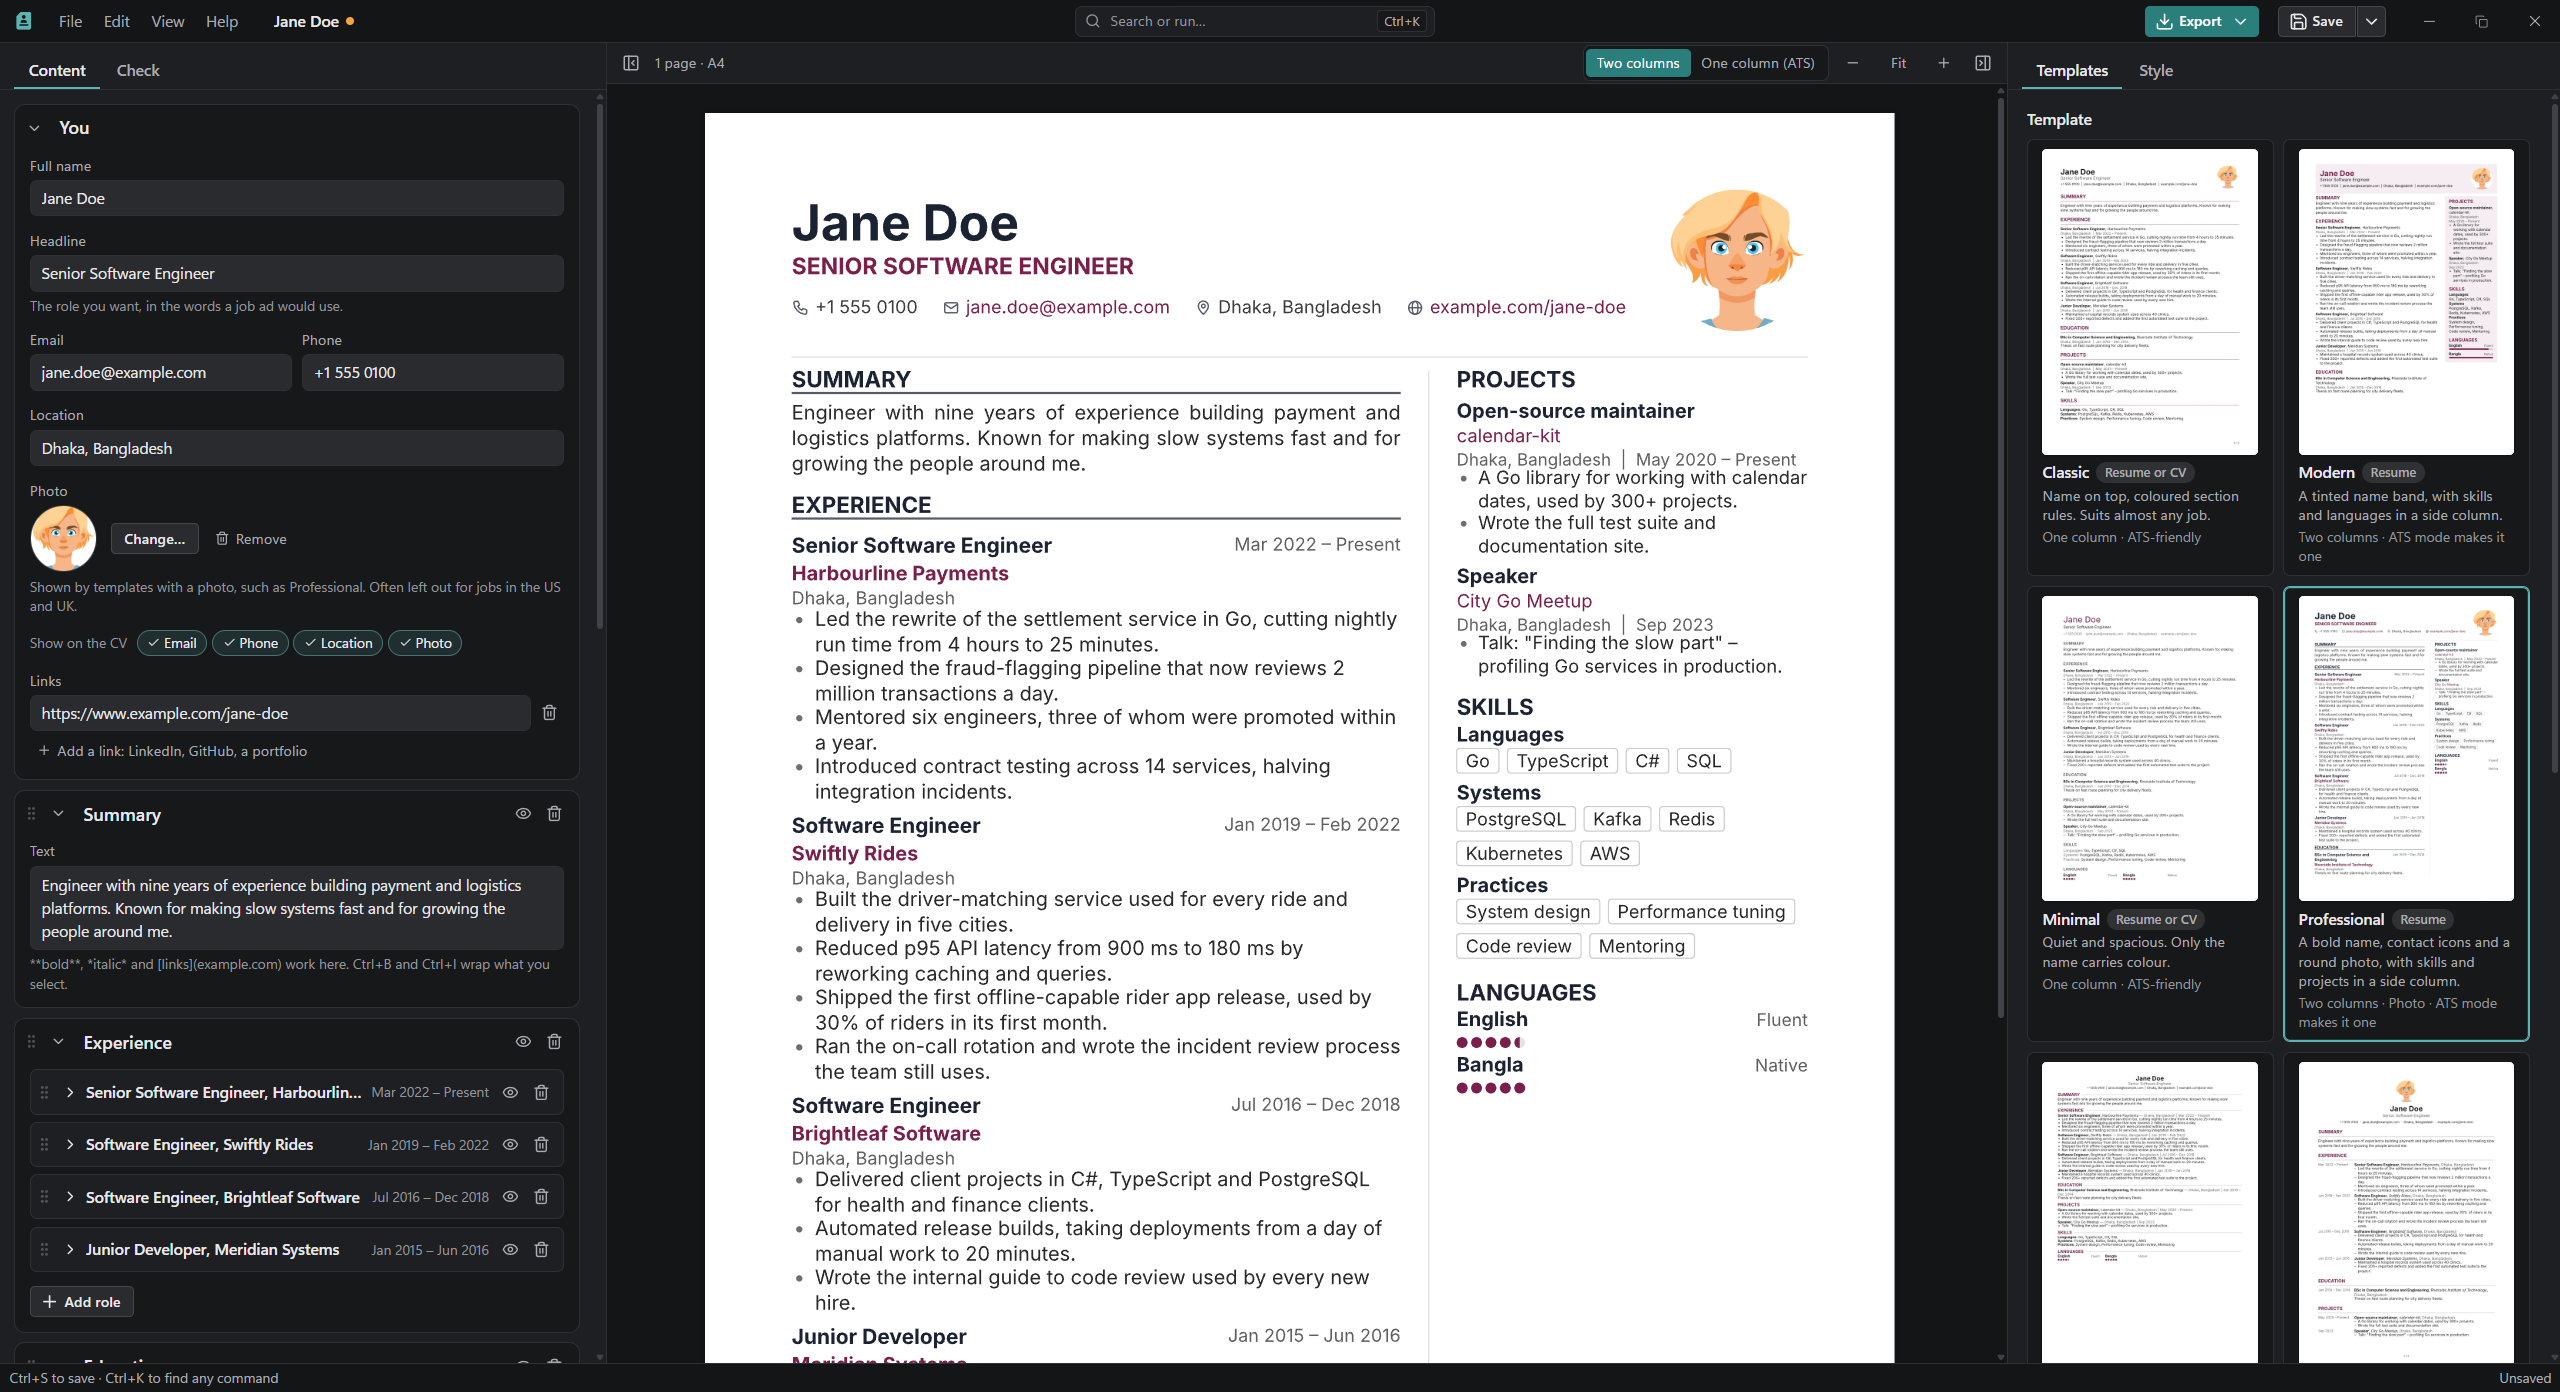
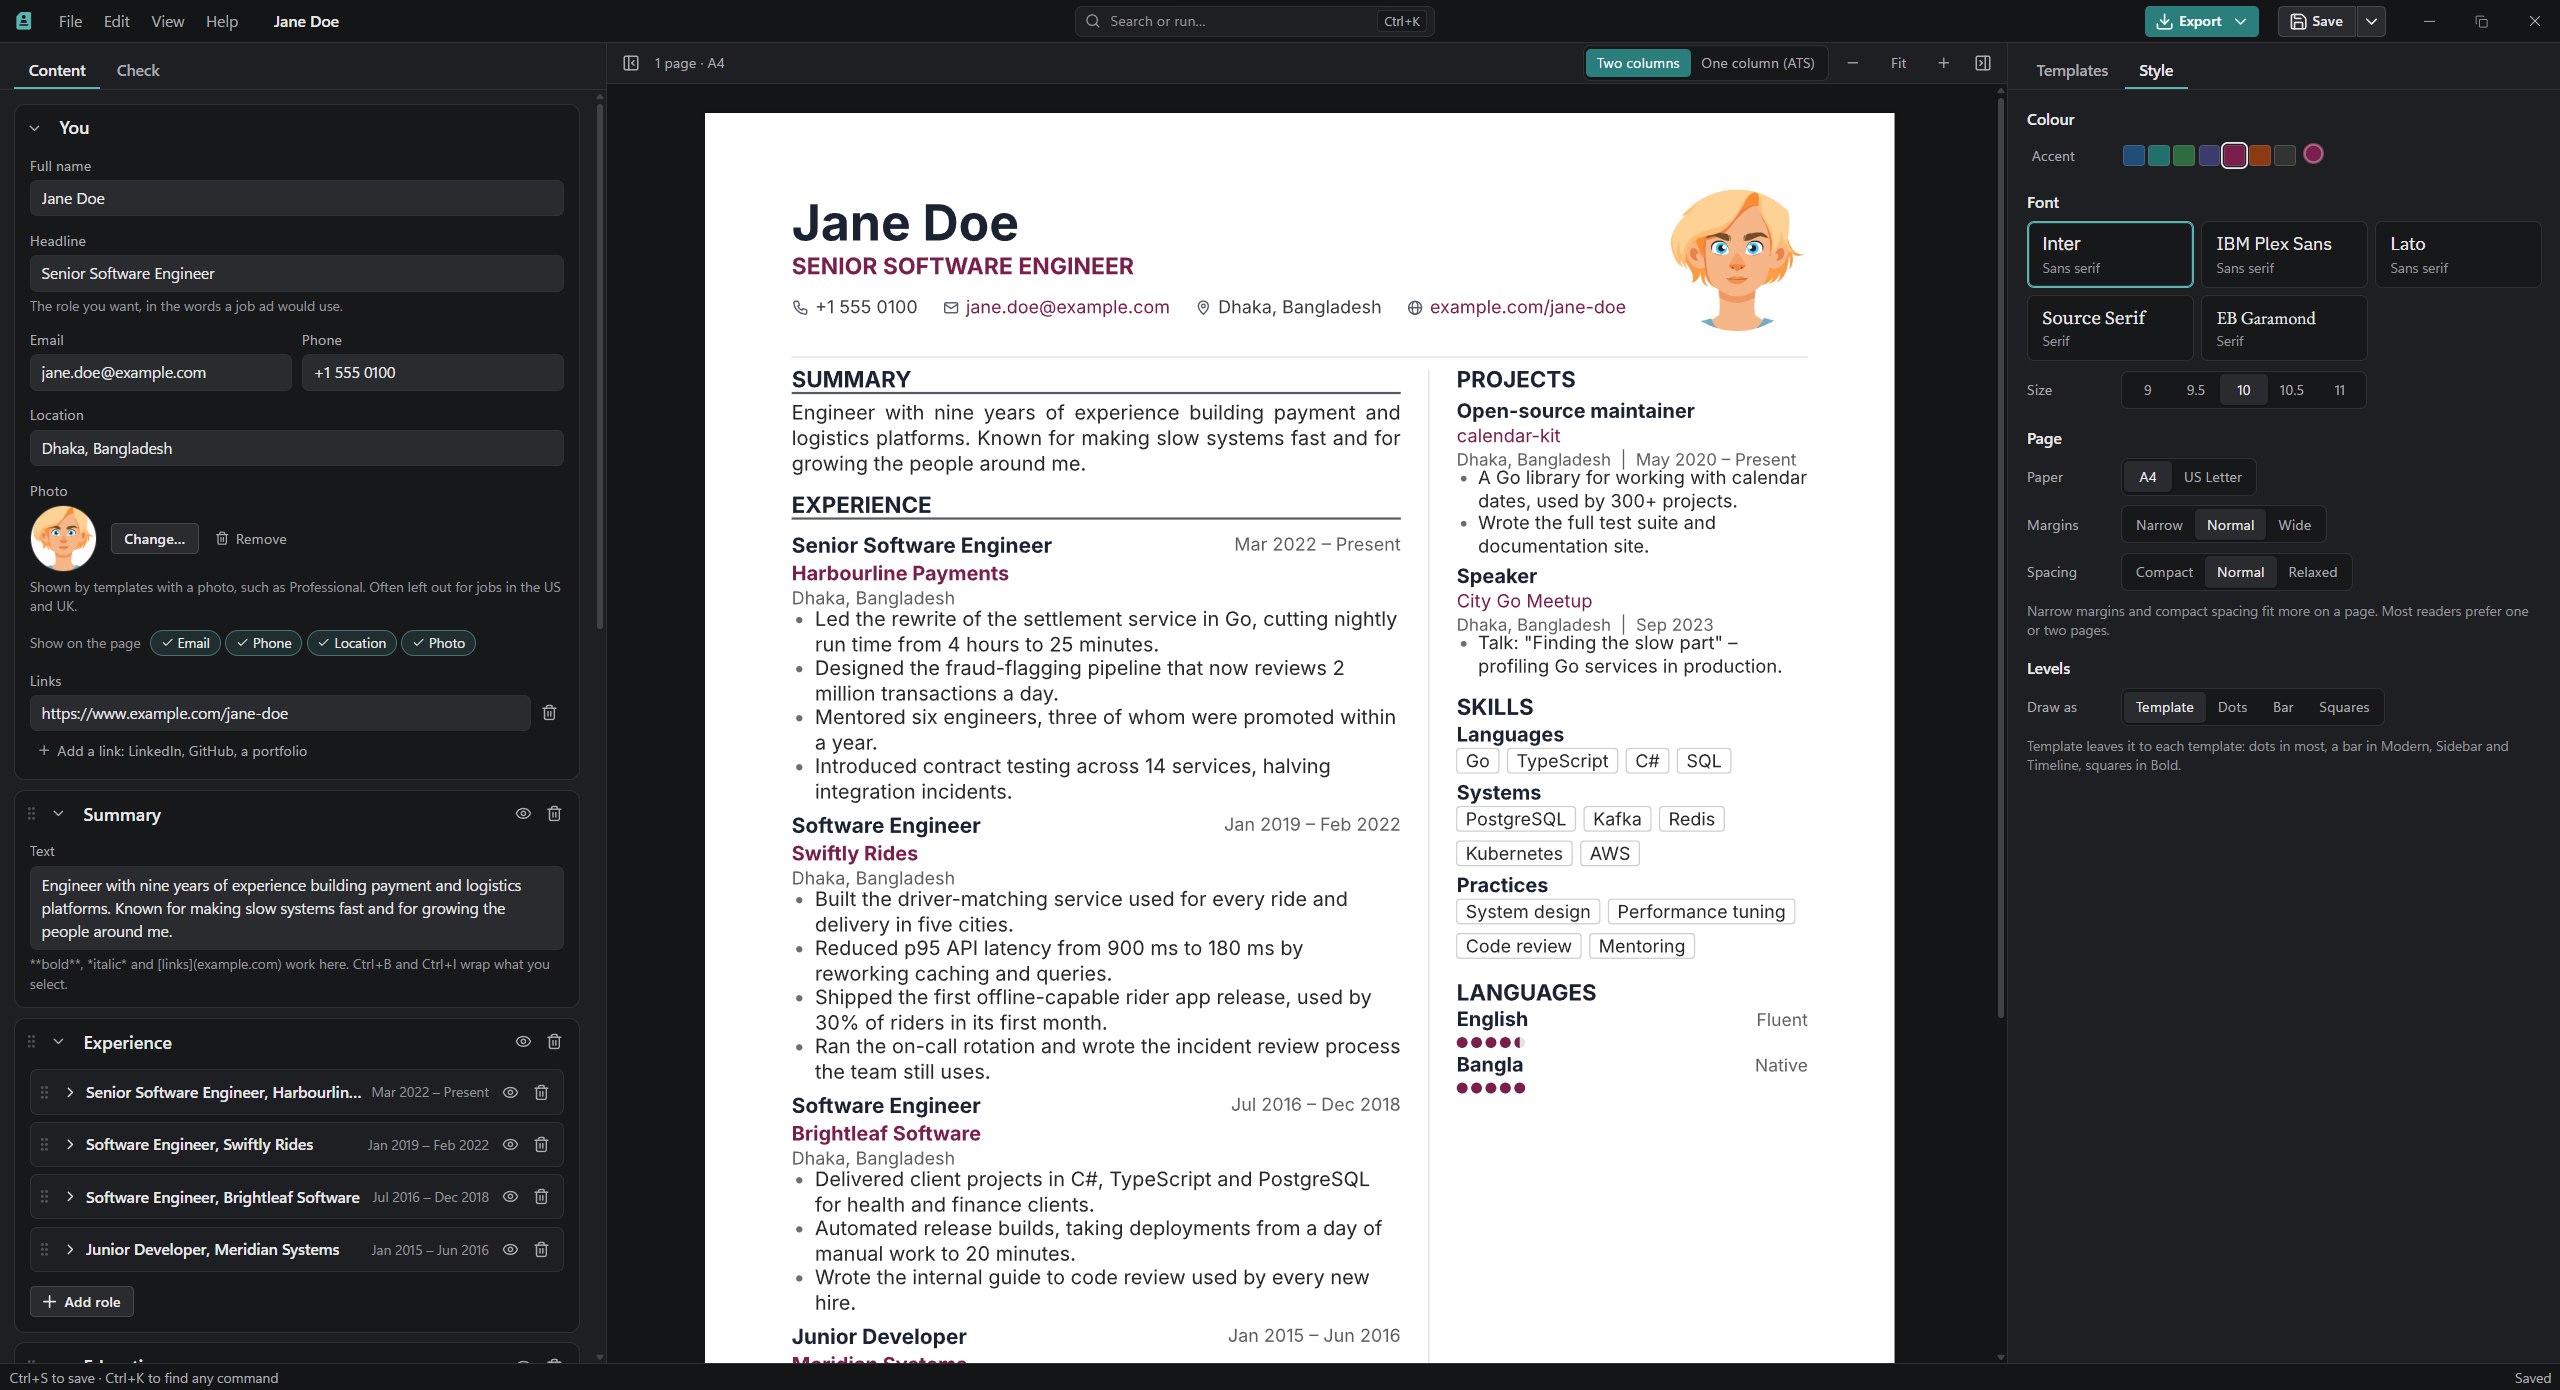
New Home and editor screenshots for 0.1.9

diff --git a/README.md b/README.md
@@ -22,7 +22,7 @@ storage of your own. Vitaena runs on Windows, macOS and Linux.
 - **Export** a PDF, a one-column PDF for online forms, a Word file, plain text, or a
   Vitaena file to move a CV to another computer.
 
-![Home: recent CVs, then templates to start from](docs/assets/screens/home.png)
+![Home: recent documents, then templates to start from in two tabs, CVs and resumes, and Biodata](docs/assets/screens/home.png)
 
 ## Biodata
 
